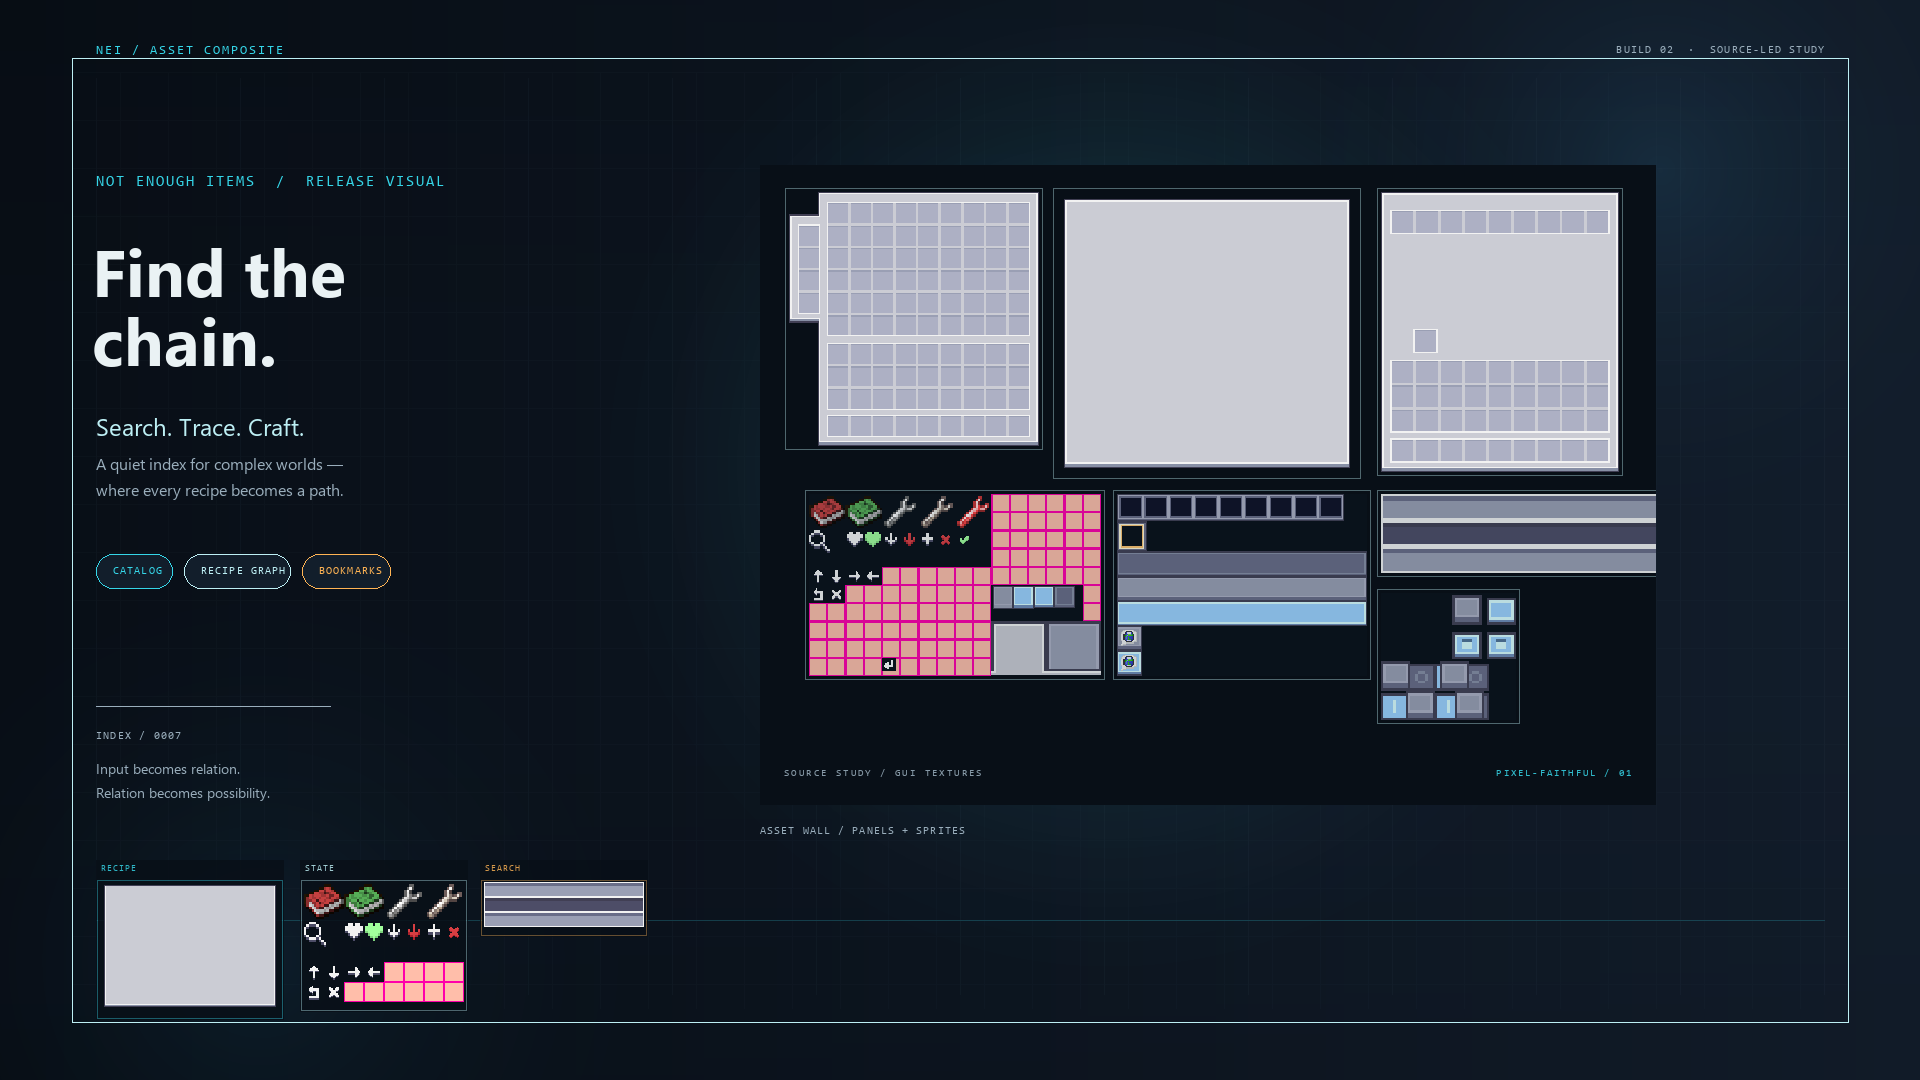
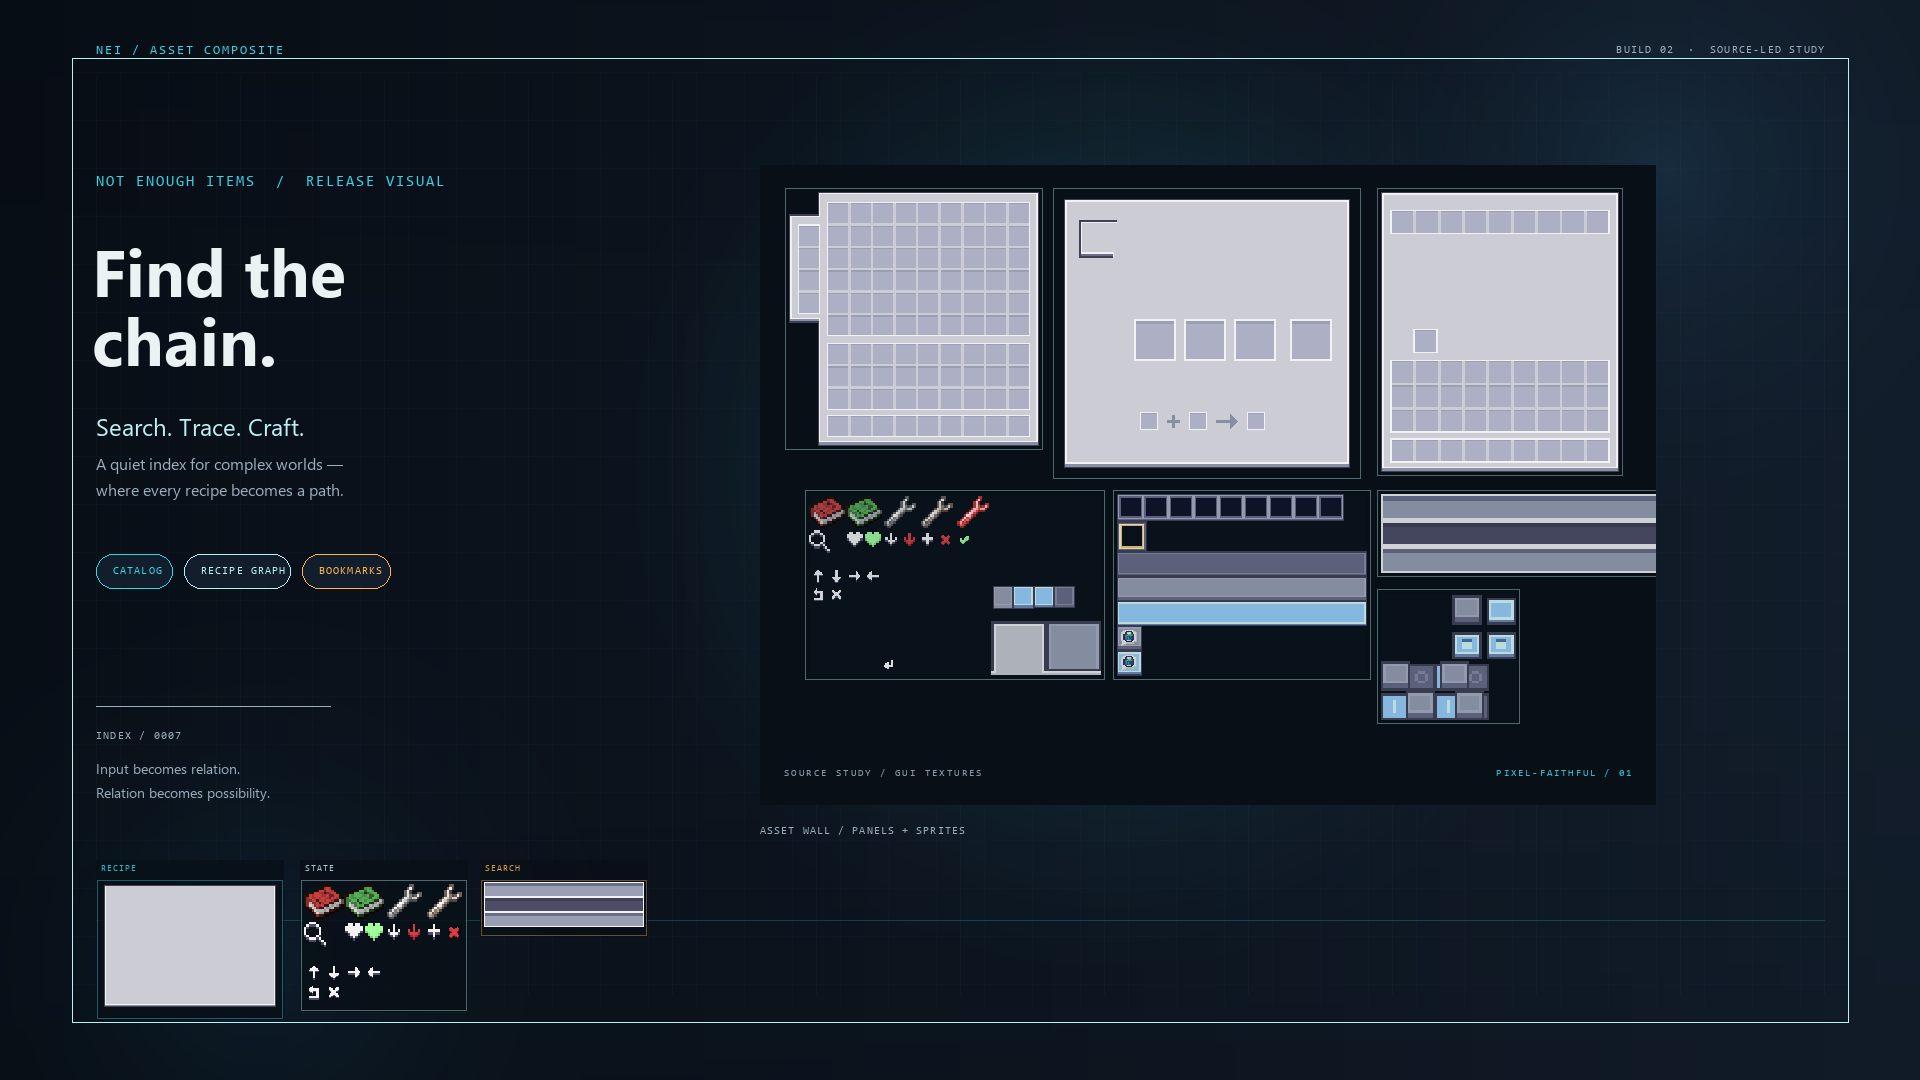
refine: polish source-led release artwork

diff --git a/generate_nexus_assets.py b/generate_nexus_assets.py
@@ -98,6 +98,18 @@ def grid(draw, size, step, inset=0, alpha=22):
         draw.line((inset, y, w - inset, y), fill=line, width=1)
 
 
+def mask_atlas_placeholder(image: Image.Image) -> Image.Image:
+    """Make the atlas' two documented placeholder colors transparent for display."""
+    masked = image.copy().convert("RGBA")
+    pixels = masked.load()
+    for y in range(masked.height):
+        for x in range(masked.width):
+            r, g, b, a = pixels[x, y]
+            if (r, g, b) in {(255, 0, 170), (255, 190, 170)}:
+                pixels[x, y] = (r, g, b, 0)
+    return masked
+
+
 def crop_frame(image: Image.Image, box: tuple[int, int, int, int], size: tuple[int, int], tint=None) -> Image.Image:
     """Scale a source crop into a framed, readable evidence card."""
     crop = image.crop(box).resize(size, Image.Resampling.NEAREST)
@@ -115,15 +127,26 @@ def ui_artwork(size=(896, 640)) -> Image.Image:
     art = Image.new("RGBA", size, (8, 15, 23, 255))
     panels = asset("panels", "inventory.png")
     recipe = asset("panels", "recipe_background.png")
-    states = asset("sprites", "interface_states.png")
+    states = mask_atlas_placeholder(asset("sprites", "interface_states.png"))
     buttons = asset("sprites", "button_backgrounds.png")
     search = asset("sprites", "search_and_tooltip.png")
     toggle = asset("sprites", "toggle_and_radio.png")
     potion = asset("panels", "potion_editor.png")
+    recipe_slot = asset("panels", "recipe_slot.png")
+    catalyst = asset("panels", "catalyst_tab.png")
+    repair = asset("panels", "repair_recipe.png")
 
     # Source texture crops arranged as a quiet, functional specimen wall.
     art.alpha_composite(crop_frame(panels, (0, 0, 199, 204), (250, 254)), (24, 22))
-    art.alpha_composite(crop_frame(recipe, (0, 0, 184, 174), (300, 283)), (292, 22))
+    recipe_card = crop_frame(recipe, (0, 0, 184, 174), (300, 283))
+    # Populate the otherwise open recipe field with existing slot/tab/repair
+    # textures. Every visible mark here comes from a tracked source PNG.
+    recipe_card.alpha_composite(catalyst.resize((48, 48), Image.Resampling.NEAREST), (22, 28))
+    for x in (82, 132, 182):
+        recipe_card.alpha_composite(recipe_slot.resize((42, 42), Image.Resampling.NEAREST), (x, 132))
+    recipe_card.alpha_composite(recipe_slot.resize((42, 42), Image.Resampling.NEAREST), (238, 132))
+    recipe_card.alpha_composite(repair.resize((168, 36), Image.Resampling.NEAREST), (64, 216))
+    art.alpha_composite(recipe_card, (292, 22))
     art.alpha_composite(crop_frame(potion, (0, 0, 176, 207), (238, 280)), (616, 22))
     art.alpha_composite(crop_frame(states, (0, 0, 256, 160), (292, 182), tint=(13, 35, 48)), (44, 324))
     art.alpha_composite(crop_frame(buttons, (0, 0, 200, 146), (250, 182), tint=(13, 35, 48)), (352, 324))
@@ -227,6 +250,8 @@ def draw_showcase():
     ]
     for label, path, box, pos, wh, color in source_rows:
         src = asset(*path.split("/"))
+        if path == "sprites/interface_states.png":
+            src = mask_atlas_placeholder(src)
         thumb = src.crop(box).resize(wh, Image.Resampling.NEAREST)
         frame = Image.new("RGBA", (wh[0] + 8, wh[1] + 32), (8, 15, 23, 220))
         frame.alpha_composite(thumb, (4, 22))

diff --git a/docs/release/nexus/README.md b/docs/release/nexus/README.md
@@ -19,9 +19,9 @@
 ## 配套发布资源 / Associated Assets
 
 模组根目录中已生成专用的高品质视觉宣传图集，可直接上传至 Nexus 页面媒体库：
-- 顶部横幅 Banner：[nexus_assets/nexus_header_1300x372.png](<nexus_assets/nexus_header_1300x372.png>) (1300×372)
-- 详细展示图 Showcase：[nexus_assets/nexus_showcase_1920x1080.png](<nexus_assets/nexus_showcase_1920x1080.png>) (1920×1080)
-- 视觉设计说明：[nexus_visual_philosophy.md](<nexus_visual_philosophy.md>)
+- 顶部横幅 Banner：[nexus_header_1300x372.png](<../../../nexus_assets/nexus_header_1300x372.png>) (1300×372)
+- 详细展示图 Showcase：[nexus_showcase_1920x1080.png](<../../../nexus_assets/nexus_showcase_1920x1080.png>) (1920×1080)
+- 视觉设计说明：[nexus_visual_philosophy.md](<../../../nexus_visual_philosophy.md>)
 - 素材来源与许可约束：[NEXUS_ASSET_CREDITS.md](<NEXUS_ASSET_CREDITS.md>)（含 CC BY-NC-SA 署名、非商业、相同方式共享与混合图集说明）
 
 ---
@@ -38,5 +38,5 @@
    - 上传由构建脚本 `pwsh -File ./scripts/Build.ps1` 生成的 `dist/NotEnoughItems-0.1.32.zip`。
    - 将 [CHANGELOG_NEXUS.md](<docs/release/nexus/CHANGELOG_NEXUS.md>) 对应版本的说明粘贴至文件的 Changelog 输入框中。
 4. **上传宣传图片 (Media / Images)**：
-   - 上传 `nexus_assets/nexus_header_1300x372.png` 并设置为 Header Image。
-   - 上传 `nexus_assets/nexus_showcase_1920x1080.png` 作为首选展示图。
+   - 上传 根目录 [`nexus_assets/nexus_header_1300x372.png`](<../../../nexus_assets/nexus_header_1300x372.png>) 并设置为 Header Image。
+   - 上传 根目录 [`nexus_assets/nexus_showcase_1920x1080.png`](<../../../nexus_assets/nexus_showcase_1920x1080.png>) 作为首选展示图。
